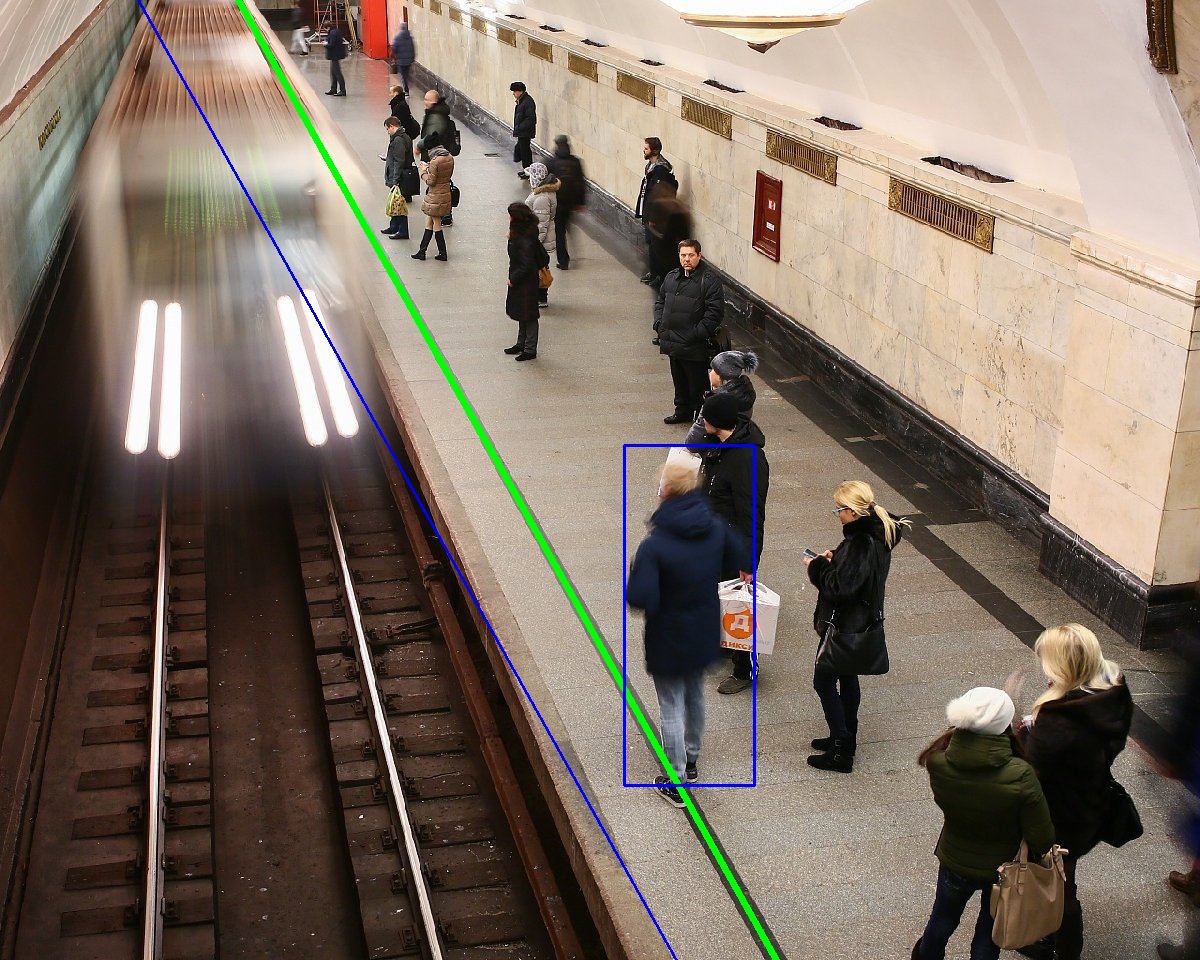
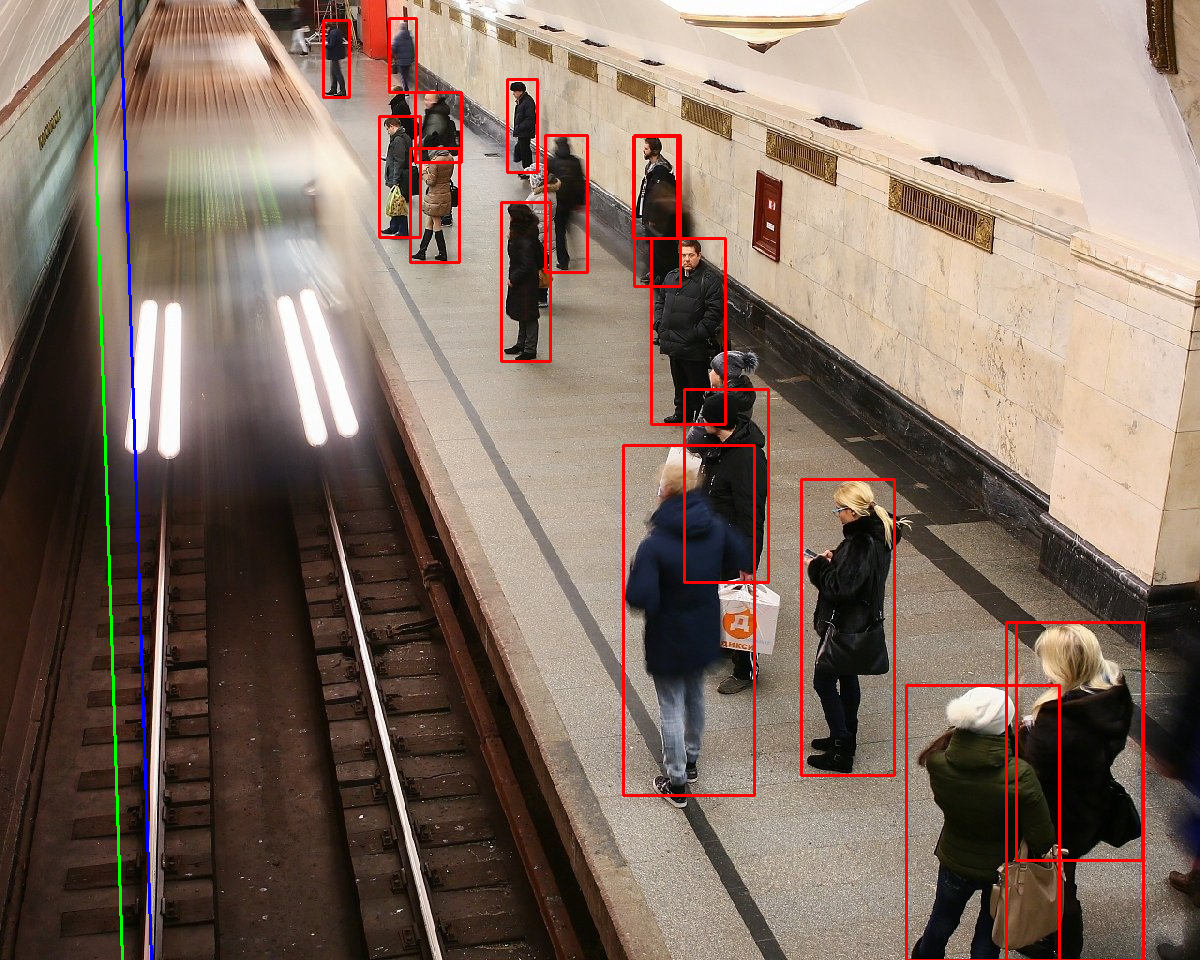
Добавлены слайдеры для края платформы Подчищен код

diff --git a/leftpanel.py b/leftpanel.py
@@ -3,10 +3,10 @@ from PyQt5.QtCore import QSize, Qt
 from PyQt5.QtGui import QPixmap
 import cv2
 
-LABEL_SIZE = QSize(100, 20)
+LABEL_SIZE = QSize(200, 20)
 MODEL_IMAGE_URL = "changed_im.png"
 BETWEEN_RANGE_MIN = 10
-BETWEEN_RANGE_MAX = 100
+BETWEEN_RANGE_MAX = 200
 
 
 class LeftPanel(QFrame):
@@ -19,13 +19,14 @@ class LeftPanel(QFrame):
         self.model = model
         self.image_label = image_label
         self.image = None
-        self.coef = None
+        self.coef_platform = None
+        self.coef_edge = None
 
-        self.inform_label = QLabel("Выбрать точки для построения линии")
+        self.inform_label = QLabel("Выбрать точки линии платформы")
         self.inform_label.setFixedSize(LABEL_SIZE)
 
-        self.range_label = QLabel("Выбрать расстояние между краем платформы и линией")
-        self.range_label.setFixedSize(LABEL_SIZE)
+        self.edge_label = QLabel("Выбрать точки края платформы")
+        self.edge_label.setFixedSize(LABEL_SIZE)
 
         self.select_im_butt = QPushButton("Выбрать изображение")
         self.select_im_butt.clicked.connect(self.select_image)
@@ -33,31 +34,37 @@ class LeftPanel(QFrame):
         self.calc_butt = QPushButton("Вычислить")
         self.calc_butt.clicked.connect(self.calculate)
 
-        self.range_slider = QSlider(Qt.Orientation.Horizontal)
-        self.range_slider.setMinimum(BETWEEN_RANGE_MIN)
-        self.range_slider.setMaximum(BETWEEN_RANGE_MAX)
-        self.range_slider.sliderMoved.connect(self.drawline)
+        self.first_point_edge = QSlider(Qt.Orientation.Horizontal)
+        self.first_point_edge.setMinimum(BETWEEN_RANGE_MIN)
+        self.first_point_edge.setMaximum(BETWEEN_RANGE_MAX)
+        self.first_point_edge.sliderMoved.connect(self.drawline)
 
-        self.first_point = QSlider(Qt.Orientation.Horizontal)
-        self.second_point = QSlider(Qt.Orientation.Horizontal)
-        self.first_point.setMinimum(1)
-        self.second_point.setMinimum(1)
-        self.first_point.setMaximum(1)
-        self.second_point.setMaximum(1)
+        self.second_point_edge = QSlider(Qt.Orientation.Horizontal)
+        self.second_point_edge.setMinimum(BETWEEN_RANGE_MIN)
+        self.second_point_edge.setMaximum(BETWEEN_RANGE_MAX)
+        self.second_point_edge.sliderMoved.connect(self.drawline)
 
-        self.first_point.sliderMoved.connect(self.drawline)
-        self.second_point.sliderMoved.connect(self.drawline)
+        self.first_point_platform = QSlider(Qt.Orientation.Horizontal)
+        self.second_point_platform = QSlider(Qt.Orientation.Horizontal)
+        self.first_point_platform.setMinimum(1)
+        self.second_point_platform.setMinimum(1)
+        self.first_point_platform.setMaximum(1)
+        self.second_point_platform.setMaximum(1)
 
-        self.is_left_check = QCheckBox()
+        self.first_point_platform.sliderMoved.connect(self.drawline)
+        self.second_point_platform.sliderMoved.connect(self.drawline)
+
+        self.is_left_check = QCheckBox("Платформа слева")
 
         layout = QVBoxLayout(self)
         layout.addWidget(self.select_im_butt)
         layout.addWidget(self.inform_label)
-        layout.addWidget(self.first_point)
-        layout.addWidget(self.second_point)
+        layout.addWidget(self.first_point_platform)
+        layout.addWidget(self.second_point_platform)
         layout.addWidget(self.is_left_check)
-        layout.addWidget(self.range_label)
-        layout.addWidget(self.range_slider)
+        layout.addWidget(self.edge_label)
+        layout.addWidget(self.first_point_edge)
+        layout.addWidget(self.second_point_edge)
         layout.addWidget(self.calc_butt)
 
     def select_image(self):
@@ -66,27 +73,27 @@ class LeftPanel(QFrame):
         pixmap = QPixmap(image_file[0])
         self.image_label.setPixmap(pixmap.scaled(self.image_label.size()))
         self.image = image_file[0]
-        self.first_point.setMaximum(cv2.imread(self.image).shape[1])
-        self.second_point.setMaximum(cv2.imread(self.image).shape[1])
+        self.first_point_platform.setMaximum(cv2.imread(self.image).shape[1])
+        self.second_point_platform.setMaximum(cv2.imread(self.image).shape[1])
 
-        self.first_point.setValue(1)
-        self.second_point.setValue(1)
+        self.first_point_platform.setValue(1)
+        self.second_point_platform.setValue(1)
 
     def drawline(self):
         new_image = cv2.imread(self.image)
 
         max_y = new_image.shape[0]
-        print(max_y)
 
-        cv2.line(new_image, (self.first_point.value(), 0),
-                 (self.second_point.value(), new_image.shape[0]), (0, 255, 0), 2)
+        cv2.line(new_image, (self.first_point_platform.value(), 0),
+                 (self.second_point_platform.value(), new_image.shape[0]), (0, 255, 0), 2)
 
         if self.is_left_check.checkState():
-            temp1 = self.first_point.value() + self.range_slider.value()
-            temp2 = self.second_point.value() + self.range_slider.value()
+            temp1 = self.first_point_platform.value() + self.first_point_edge.value()
+            temp2 = self.second_point_platform.value() + self.second_point_edge.value()
+            
         else:
-            temp1 = self.first_point.value() - self.range_slider.value()
-            temp2 = self.second_point.value() - self.range_slider.value()
+            temp1 = self.first_point_platform.value() - self.first_point_edge.value()
+            temp2 = self.second_point_platform.value() - self.second_point_edge.value()
 
         cv2.line(new_image, (temp1, 0), (temp2, new_image.shape[0]), (255, 0, 0), 2)
 
@@ -95,10 +102,15 @@ class LeftPanel(QFrame):
 
         self.image_label.setPixmap(pixmap.scaled(self.image_label.size()))
 
-        a = (self.second_point.value() - self.first_point.value()) / max_y
-        b = self.first_point.value()
+        a = (self.second_point_platform.value() - self.first_point_platform.value()) / max_y
+        b = self.first_point_platform.value()
 
-        self.coef = (a, b)
+        self.coef_platform = (a, b)
+
+        a = (temp2 - temp1) / max_y
+        b = temp1
+
+        self.coef_edge = (a, b)
 
     def calculate(self):
         new_image = cv2.imread(MODEL_IMAGE_URL)
@@ -111,26 +123,25 @@ class LeftPanel(QFrame):
         off_peoples_count = 0
 
         for person in persons:
-            point = person.xyxy[0][2:].clone()
+            platform_point = self.coef_platform[0] * person.xyxy[0][3] + self.coef_platform[1]
+            edge_point = self.coef_edge[0] * person.xyxy[0][3] + self.coef_edge[1]
+            range = abs(platform_point - edge_point)
             if self.is_left_check.checkState():
-                if 0 <= - point[0] + self.coef[0] * point[1] + self.coef[1] <= self.range_slider.value():
+                diff = person.xyxy[0][2] - platform_point
+                if 0 <= diff <= range:
                     between_peoples_count += 1
-                elif point[0] - self.coef[0] * point[1] + self.coef[1] > self.range_slider.value():
+                    self.rectangle_drawing(new_image, person, (255, 0, 0))
+                elif diff > range:
                     off_peoples_count += 1
+                    self.rectangle_drawing(new_image, person, (0, 0, 255))
             else:
-                point[0] = person.xyxy[0][0]
-                print(self.coef[0] * point[1] + self.coef[1] - point[0])
-                if 0 <= (self.coef[0] * point[1] + self.coef[1]) - point[0] <= self.range_slider.value():
+                diff = platform_point - person.xyxy[0][0]
+                if 0 <= diff <= range:
                     between_peoples_count += 1
-                    pt1 = [int(i) for i in person.xyxy[0][:2].tolist()]
-                    pt2 = [int(i) for i in person.xyxy[0][2:].tolist()]
-                    cv2.rectangle(new_image, pt2, pt1, (255, 0, 0), 2)
-                    print((self.coef[0] * point[1] + self.coef[1]) - point[0])
-                elif self.coef[0] * point[1] + self.coef[1] - point[0] > self.range_slider.value():
+                    self.rectangle_drawing(new_image, person, (255, 0, 0))
+                elif diff > range:
                     off_peoples_count += 1
-                    pt1 = [int(i) for i in person.xyxy[0][:2].tolist()]
-                    pt2 = [int(i) for i in person.xyxy[0][2:].tolist()]
-                    cv2.rectangle(new_image, pt2, pt1, (0, 0, 255), 2)
+                    self.rectangle_drawing(new_image, person, (0, 0, 255))
 
         cv2.imwrite(MODEL_IMAGE_URL, new_image)
         pixmap = QPixmap(MODEL_IMAGE_URL)
@@ -139,3 +150,9 @@ class LeftPanel(QFrame):
         print(f"Количество людей {len(persons)}")
         print(f"Количество за линией {between_peoples_count}")
         print(f"Количество за перроном {off_peoples_count}")
+
+    @staticmethod
+    def rectangle_drawing(image, points, color):
+        pt1 = [int(i) for i in points.xyxy[0][:2].tolist()]
+        pt2 = [int(i) for i in points.xyxy[0][2:].tolist()]
+        cv2.rectangle(image, pt2, pt1, color, 2)

diff --git a/main.py b/main.py
@@ -7,7 +7,8 @@ import sys
 #TODO: исправить линию края платформы
 #TODO: заменить коэффиценты прямых на лямбда-функции?
 #TODO: заменить слайдеры на что-то другое?
-#TODO: в функции claculate вынести рисование прямоугольников в отдельныее функции
+#TODO: в функции claculate вынести рисование прямоугольников в отдельныее функции (+)
+#TODO: (не обязательно) сдлеать защиту от неверных вводов
 
 if __name__ == "__main__":
     app = QApplication(sys.argv)
